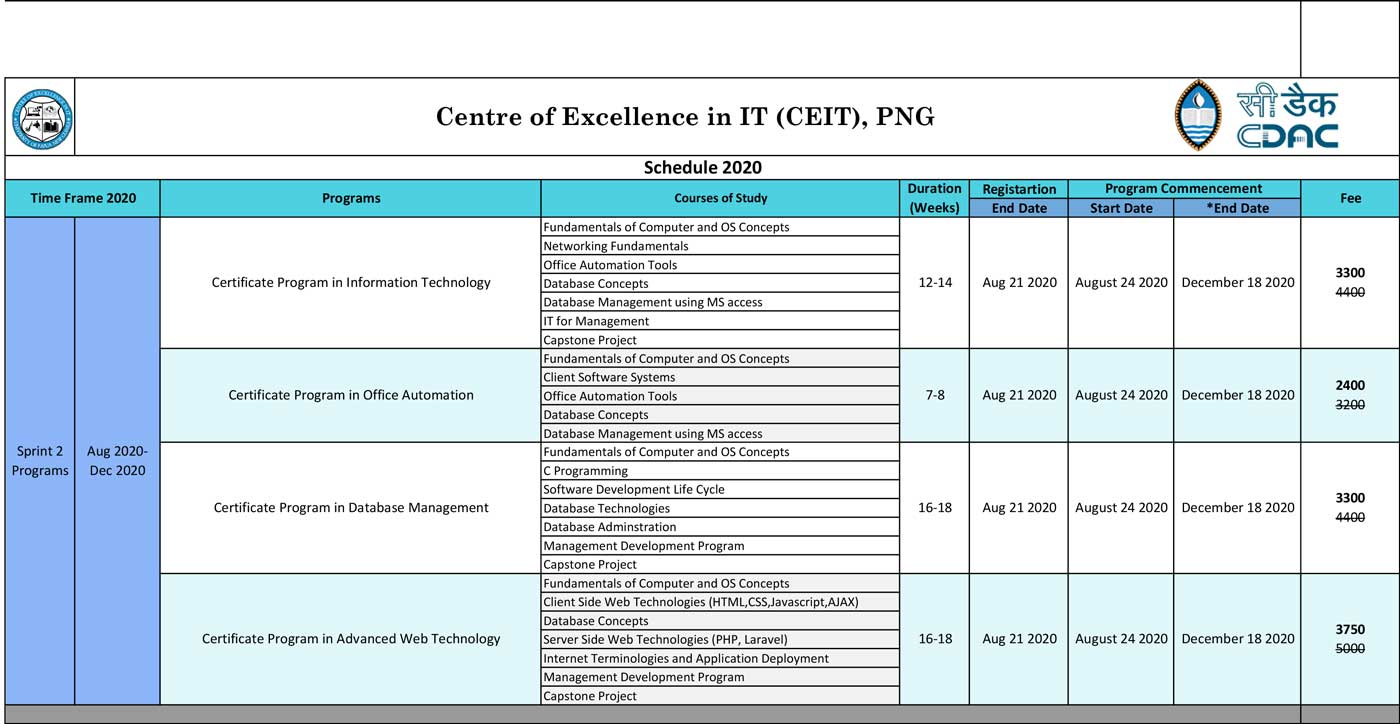
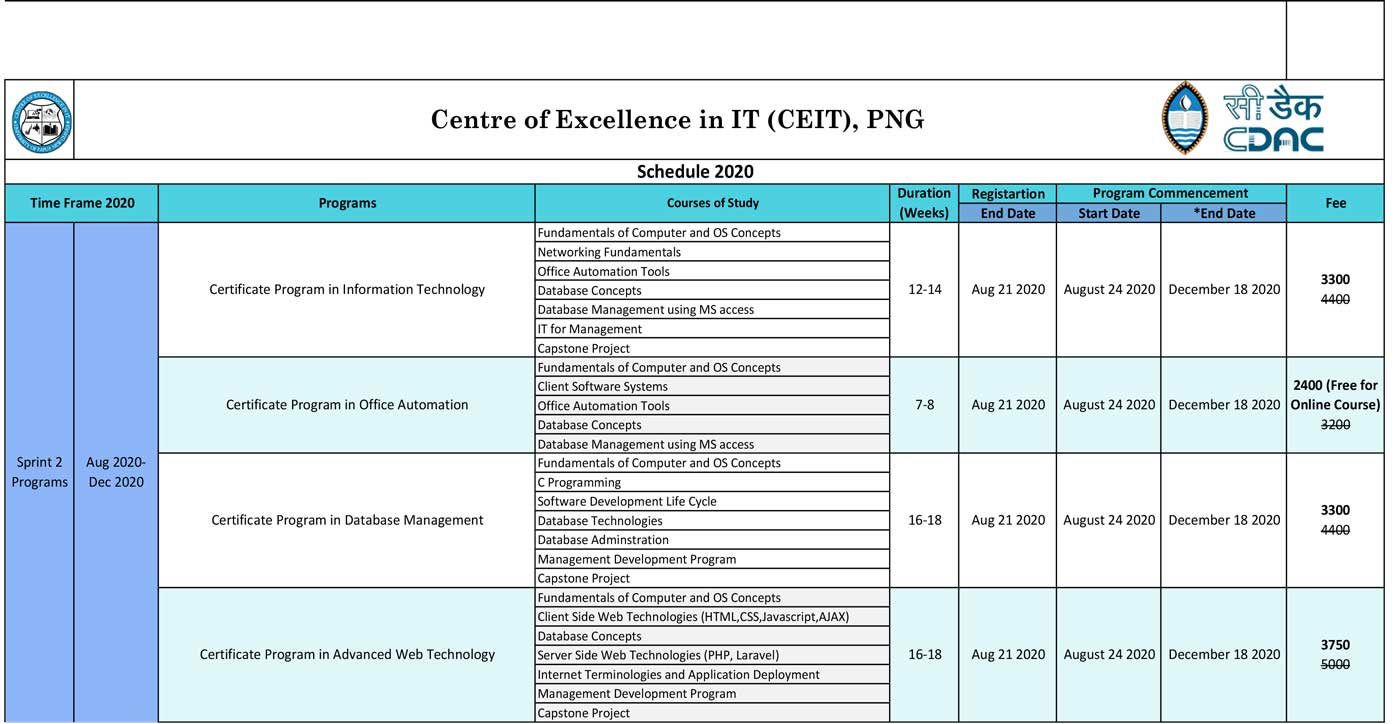
changes

Changed region(s): [[0.0, 0.0, 1.0, 1.0]]

diff --git a/_drafts/src/html/notify.html b/_drafts/src/html/notify.html
@@ -18,16 +18,16 @@
 
                     <div class="row" id="workshop">
                         <div class="col-md-10 col-sm-12">
-                            <a href="https://forms.gle/voRtE53wHodSpz6t5" target="_blank">
+                            <a href="https://github.com/ceit-png/ceit-png.github.io/raw/master/Free_Online_CCOA.pdf" target="_blank">
                                 <div class="alert alert-info">
-                                    <i class="fa fa-info-circle"></i> <b>Event:</b>
-                                    Free 2-Day Workshop Registartion<br>
-                                    (27th and 28th July 2020)
+                                    <i class="fa fa-info-circle"></i> <b>Alert:</b>
+                                    Free Online - Certificate course in Office Automation<br>
+                                   Click Here for more details
                                 </div>
                             </a>
                         </div>
                         <div class="col-md-2 col-sm-12">
-                            <a type="button" href="https://forms.gle/voRtE53wHodSpz6t5" class="btn btn-primary"
+                            <a type="button" href="https://forms.gle/2QmeSHFxHvXBnzLA9" class="btn btn-primary"
                                 target="_blank">Apply now <br></a>
                         </div>
                     </div>
